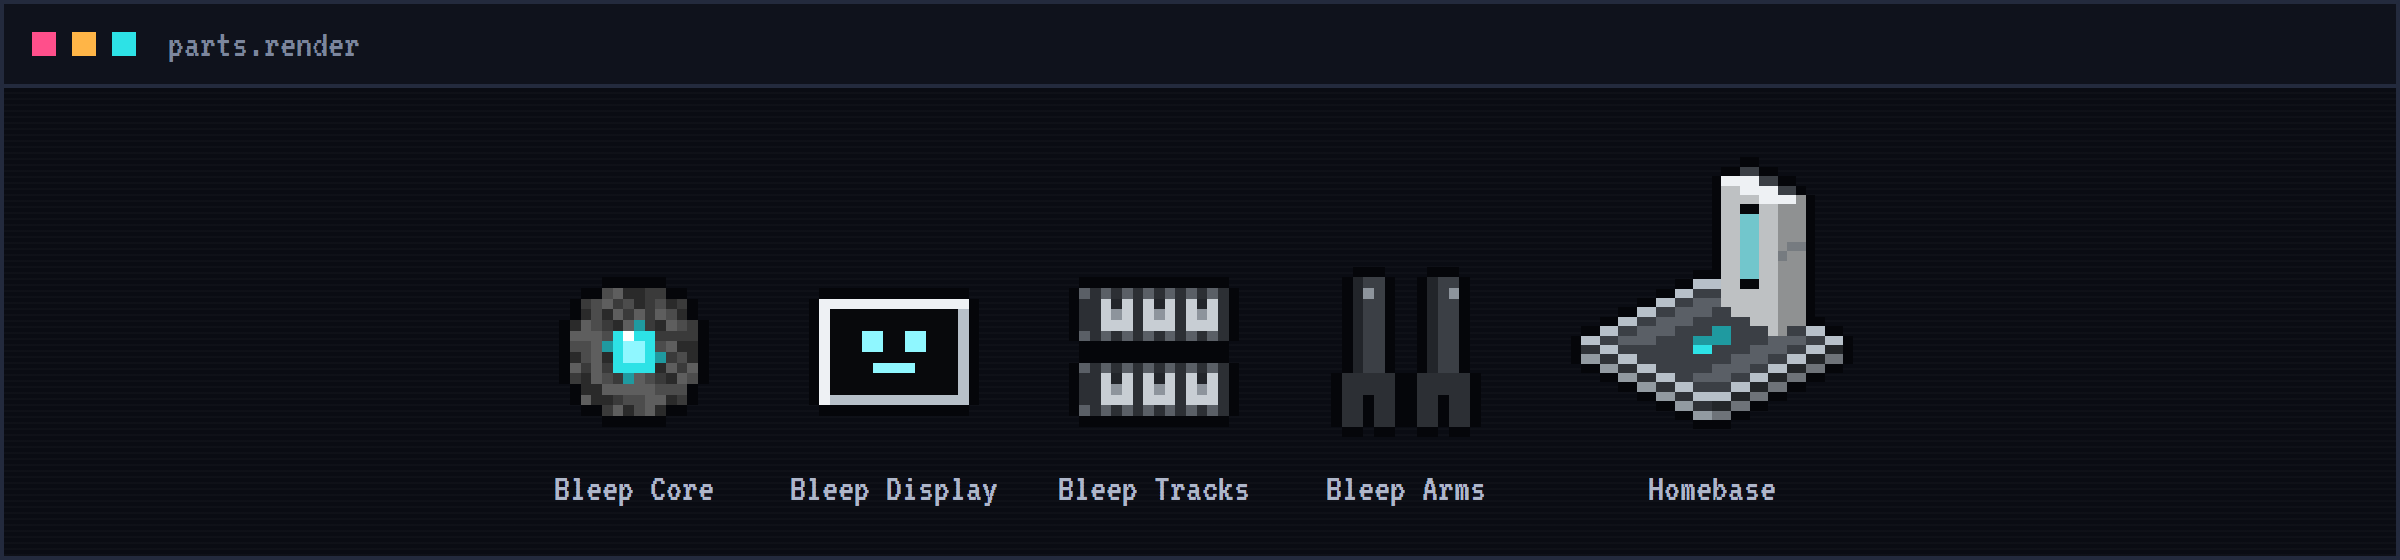
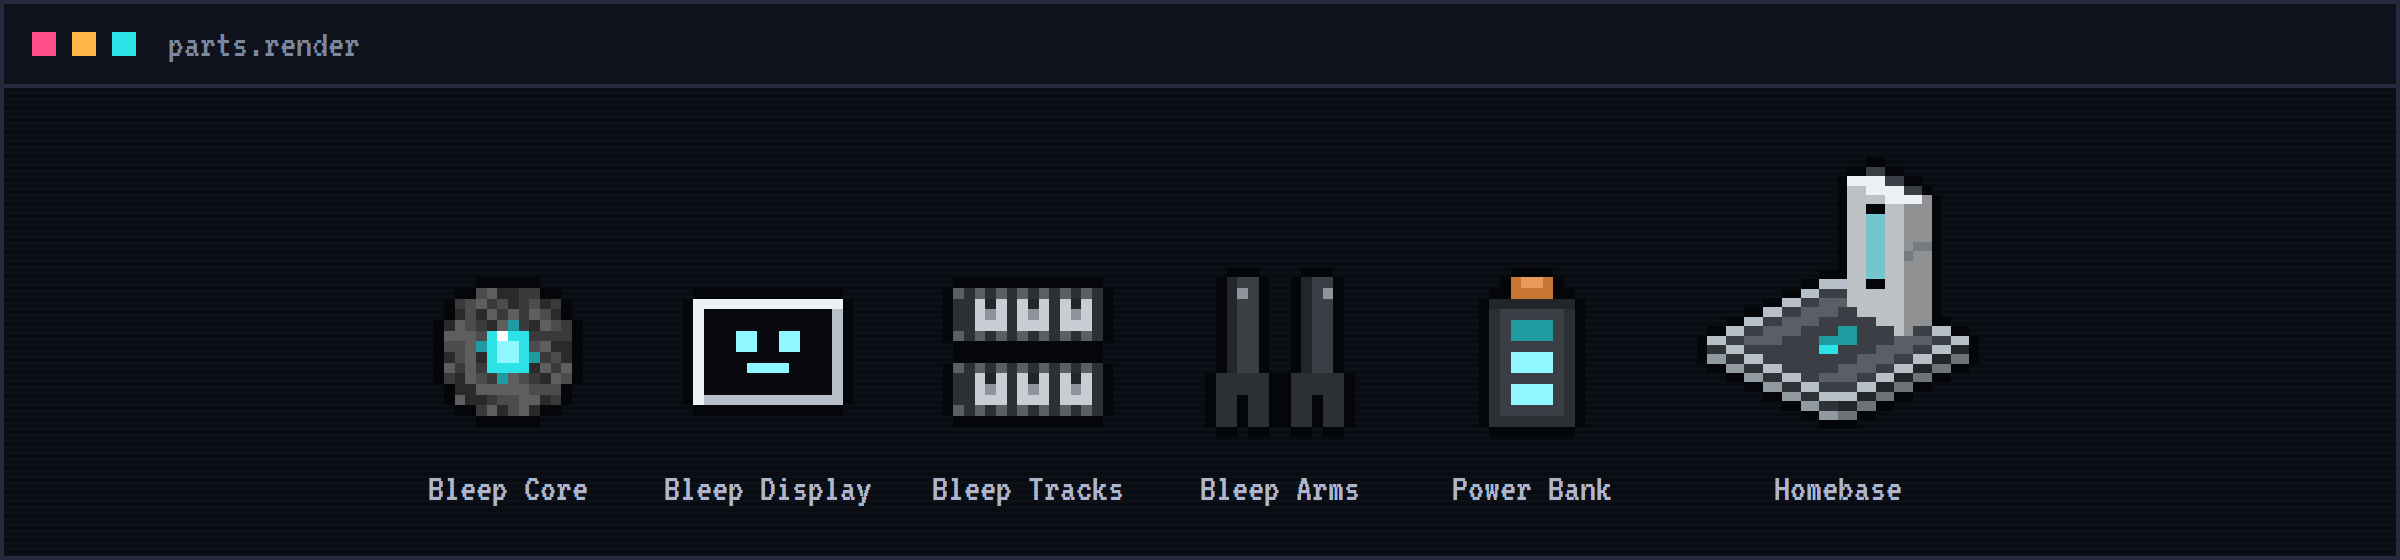
Charging: redstone (also when switched off), a power bank filled on a homebase, and lightning that overcharges it; storm thoughts
Claude-Session: https://claude.ai/code/session_01KQXgr11Y44rM8FATjPeLox

Changed region(s): [[0.1875, 0.3036, 0.8438, 0.7893], [0.1562, 0.85, 0.8125, 0.9107]]

diff --git a/src/main/java/io/hookdev/bleep/entity/BleepEntity.java b/src/main/java/io/hookdev/bleep/entity/BleepEntity.java
@@ -99,6 +99,10 @@ public class BleepEntity extends TamableAnimal {
     public static final int GOES_HOME_AFTER = 40;
     /** Further from home than this (blocks), it does not drive but beams home. */
     public static final double BEAM_HOME_FROM = 32;
+    /** Battery from a redstone dust and a block of redstone. */
+    public static final float REDSTONE_CHARGE = 8, REDSTONE_BLOCK_CHARGE = 72;
+    /** Ticks it is overcharged after a lightning strike: hyper and glitchy. */
+    public static final int OVERCHARGE_TICKS = 600;
     /** Battery per blow it lands in a fight. */
     public static final float FIGHT_COST = 1.5f;
     /** How bright its torch lights the way. */
@@ -128,7 +132,7 @@ public class BleepEntity extends TamableAnimal {
     public static final Map<String, Integer> THOUGHTS = Map.ofEntries(
             Map.entry("happy", 5), Map.entry("excited", 3), Map.entry("sad", 3), Map.entry("angry", 3), Map.entry("bored", 4),
             Map.entry("surprised", 2), Map.entry("tired", 3), Map.entry("asleep", 3), Map.entry("charging", 3), Map.entry("llama", 2),
-            Map.entry("stubborn", 3), Map.entry("glitch", 2), Map.entry("fighting", 3));
+            Map.entry("stubborn", 3), Map.entry("glitch", 2), Map.entry("fighting", 3), Map.entry("overcharged", 3), Map.entry("storm", 2));
     /** What it says about a kind of mob it has no line for (another mod's). */
     public static final String UNKNOWN_MOB = "Never seen one of those. Filing it under weird.";
 
@@ -162,6 +166,8 @@ public class BleepEntity extends TamableAnimal {
     private @Nullable BlockPos lit;
     /** Ticks it has had nothing to do; a bored bleep gets up to something (NaughtyGoal). */
     private int quietTicks;
+    /** Ticks left of being overcharged by lightning. */
+    private int overchargeTicks;
     /** Made in registerGoals, which Minecraft calls from the constructor, before field initialisers run: no initialiser here. */
     private NaughtyGoal naughty;
 
@@ -378,6 +384,23 @@ public class BleepEntity extends TamableAnimal {
      * day). Returns whether it took it.
      */
     public boolean give(Player player, ItemStack stack) {
+        if (stack.is(Items.REDSTONE_BLOCK)) {
+            if (battery() >= FULL) {
+                player.sendOverlayMessage(Component.translatable("message.bleep.full", getDisplayName()));
+                return false;
+            }
+            charge(REDSTONE_BLOCK_CHARGE);
+            return true;
+        }
+        if (stack.is(Items.REDSTONE) && battery() < FULL) {
+            charge(REDSTONE_CHARGE);
+            today();
+            if (giftsToday < Bond.GIFTS_PER_DAY && !slept) { // still a treat too, as long as there are treats left today
+                giftsToday++;
+                changeBond(Bond.GIFT);
+            }
+            return true;
+        }
         if (stack.is(Items.TORCH)) {
             if (!can(Skill.TORCH)) {
                 player.sendOverlayMessage(Component.translatable("message.bleep.not_yet", getDisplayName(), Component.translatable(Bond.key(Skill.TORCH.level * 25))));
@@ -427,6 +450,55 @@ public class BleepEntity extends TamableAnimal {
         if (player != null) {
             player.sendOverlayMessage(Component.translatable("message.bleep.loves", getDisplayName(), Component.translatable(obsession().nameKey())));
         }
+    }
+
+    /** Charges it this much, with a few sparks. */
+    public void charge(float percent) {
+        setBattery(battery() + percent);
+        if (level() instanceof ServerLevel level) {
+            level.sendParticles(net.minecraft.core.particles.ParticleTypes.ELECTRIC_SPARK, getX(), getY() + 0.7, getZ(), 6, 0.3, 0.3, 0.3, 0.05);
+        }
+        playSound(SoundEvents.BEACON_POWER_SELECT, 0.4f, 1.8f);
+    }
+
+    /** Tops it up from a power bank, as far as the bank and the battery go. The bank is kept (it shows what is left). */
+    public boolean usePowerBank(Player player, ItemStack bank) {
+        int left = bank.getMaxDamage() - bank.getDamageValue();
+        int needed = (int) Math.ceil(FULL - battery());
+        if (left <= 0) {
+            player.sendOverlayMessage(Component.translatable("message.bleep.power_bank_empty"));
+            return false;
+        }
+        if (needed <= 0) {
+            player.sendOverlayMessage(Component.translatable("message.bleep.full", getDisplayName()));
+            return false;
+        }
+        int given = Math.min(left, needed);
+        bank.setDamageValue(bank.getDamageValue() + given);
+        charge(given);
+        return false; // nothing used up: the bank stays in the hand
+    }
+
+    /** Whether giving it this works while it is switched off: only what charges it. */
+    private static boolean charges(ItemStack stack) {
+        return stack.is(Items.REDSTONE) || stack.is(Items.REDSTONE_BLOCK) || stack.is(BleepContent.POWER_BANK.get());
+    }
+
+    /** Lightning overcharges it: full at once, and hyper for a while. It does not hurt it. */
+    @Override
+    public void thunderHit(ServerLevel level, net.minecraft.world.entity.LightningBolt lightning) {
+        setBattery(FULL);
+        if (slept) {
+            slept = false;
+            if (followAfterSleep) follow();
+        }
+        overchargeTicks = OVERCHARGE_TICKS;
+        setRemainingFireTicks(0);
+        level.sendParticles(net.minecraft.core.particles.ParticleTypes.ELECTRIC_SPARK, getX(), getY() + 0.7, getZ(), 30, 0.4, 0.6, 0.4, 0.2);
+    }
+
+    public boolean overcharged() {
+        return overchargeTicks > 0;
     }
 
     /** Gives its torch back. */
@@ -655,6 +727,9 @@ public class BleepEntity extends TamableAnimal {
             llamaTicks = 40;
         }
         lightTheWay();
+        if (overchargeTicks > 0 && --overchargeTicks % 10 == 0 && level() instanceof ServerLevel level) {
+            level.sendParticles(net.minecraft.core.particles.ParticleTypes.ELECTRIC_SPARK, getX(), getY() + 0.8, getZ(), 2, 0.3, 0.3, 0.3, 0.05);
+        }
         if (getTarget() != null && (battery() < TIRED || !getTarget().isAlive())) setTarget(null);
         boolean quiet = !moving && fetching == null && scanning == null && getTarget() == null && getMainHandItem().isEmpty();
         quietTicks = quiet ? quietTicks + 1 : 0;
@@ -812,6 +887,7 @@ public class BleepEntity extends TamableAnimal {
     private Emotion currentEmotion() {
         if (slept) return Emotion.ASLEEP;
         if (moodTicks > 0) return mood;
+        if (overchargeTicks > 0) return (overchargeTicks / 10) % 2 == 0 ? Emotion.GLITCH : Emotion.EXCITED;
         if (getTarget() != null) return Emotion.ANGRY;
         if (battery() < TIRED) return Emotion.TIRED;
         if (idleTicks > (home() == null ? BORED_AFTER / 2 : BORED_AFTER)) return Emotion.BORED;
@@ -824,6 +900,7 @@ public class BleepEntity extends TamableAnimal {
         if (slept) return Activity.SLEEPING;
         if (dawdleTicks > 0) return Activity.DAWDLING;
         if (getTarget() != null) return Activity.FIGHTING;
+        if (overchargeTicks > 0) return Activity.OVERCHARGED;
         if (naughty.busy()) return Activity.NAUGHTY;
         if (goingHome) return Activity.GOING_HOME;
         if (llamaTicks > 0) return Activity.HIDING;
@@ -848,7 +925,10 @@ public class BleepEntity extends TamableAnimal {
             return;
         }
         String kind = emotion == Emotion.ASLEEP ? "asleep" : activity == Activity.CHARGING ? "charging"
-                : activity == Activity.HIDING ? "llama" : activity == Activity.FIGHTING ? "fighting" : emotion == Emotion.BOOT ? "excited" : emotion.texture();
+                : activity == Activity.HIDING ? "llama" : activity == Activity.FIGHTING ? "fighting" : activity == Activity.OVERCHARGED ? "overcharged"
+                : emotion == Emotion.BOOT ? "excited" : emotion.texture();
+        // in a thunderstorm it hopes for lightning
+        if ((kind.equals("happy") || kind.equals("bored")) && level().isThundering()) kind = "storm";
         if (kind.equals(thoughtKind) && ++thinkTicks < THINK_EVERY) return;
         thoughtKind = kind;
         thinkTicks = 0;
@@ -863,6 +943,7 @@ public class BleepEntity extends TamableAnimal {
     /** A tired bleep drives slower. */
     @Override
     public float getSpeed() {
+        if (overchargeTicks > 0) return super.getSpeed() * 1.5f;
         return battery() < TIRED ? super.getSpeed() * 0.6f : super.getSpeed();
     }
 
@@ -898,7 +979,11 @@ public class BleepEntity extends TamableAnimal {
         if (!isOwnedBy(player)) return super.mobInteract(player, hand);
         if (!stack.isEmpty()) {
             if (level().isClientSide()) return super.mobInteract(player, hand);
-            if (asleep()) return super.mobInteract(player, hand);
+            if (asleep() && !charges(stack)) return super.mobInteract(player, hand);
+            if (stack.is(BleepContent.POWER_BANK.get())) { // the bank is kept: it shows what is left
+                usePowerBank(player, stack);
+                return InteractionResult.SUCCESS;
+            }
             if (give(player, stack)) {
                 stack.consume(1, player);
                 return InteractionResult.SUCCESS;
@@ -978,6 +1063,7 @@ public class BleepEntity extends TamableAnimal {
         output.putBoolean("revealed", revealed());
         output.putInt("assembly", assembly());
         output.putInt("learned", learned);
+        output.putInt("overcharge", overchargeTicks);
         output.putLong("bond_day", bondDay);
         output.putInt("pets_today", petsToday);
         output.putInt("gifts_today", giftsToday);
@@ -1001,6 +1087,7 @@ public class BleepEntity extends TamableAnimal {
         this.entityData.set(REVEALED, input.getBooleanOr("revealed", false));
         this.entityData.set(ASSEMBLY, input.getIntOr("assembly", 0));
         learned = input.getIntOr("learned", 0);
+        overchargeTicks = input.getIntOr("overcharge", 0);
         bondDay = input.getLongOr("bond_day", -1);
         petsToday = input.getIntOr("pets_today", 0);
         giftsToday = input.getIntOr("gifts_today", 0);

diff --git a/src/main/java/io/hookdev/bleep/gametest/BleepGameTests.java b/src/main/java/io/hookdev/bleep/gametest/BleepGameTests.java
@@ -76,6 +76,10 @@ public final class BleepGameTests {
         test("a_buddy_brings_what_it_finds", BleepGameTests::aBuddyBringsWhatItFinds, 300);
         test("a_bored_bleep_steals_a_cookie", BleepGameTests::aBoredBleepStealsACookie, 300);
         test("a_bored_bleep_moves_a_torch", BleepGameTests::aBoredBleepMovesATorch, 400);
+        test("redstone_charges_it", BleepGameTests::redstoneChargesIt, 20);
+        test("redstone_wakes_an_empty_bleep", BleepGameTests::redstoneWakesAnEmptyBleep, 40);
+        test("a_power_bank_tops_it_up", BleepGameTests::aPowerBankTopsItUp, 20);
+        test("lightning_overcharges_it", BleepGameTests::lightningOverchargesIt, 40);
         test("the_core_needs_its_parts", BleepGameTests::theCoreNeedsItsParts, 20);
         test("the_core_puts_a_bleep_together", BleepGameTests::theCorePutsABleepTogether, 200);
         test("the_core_turns_up_in_chests", BleepGameTests::partsTurnUpInChests, 20);
@@ -430,6 +434,56 @@ public final class BleepGameTests {
             BlockPos moved = bleep.movedTorch();
             helper.assertTrue(moved != null && helper.getLevel().getBlockState(moved).is(Blocks.TORCH), "and stand somewhere else, nothing broken");
         });
+    }
+
+    private static void redstoneChargesIt(GameTestHelper helper) {
+        Player owner = player(helper);
+        BleepEntity bleep = bleep(helper, owner);
+        bleep.setBattery(50);
+        helper.assertTrue(bleep.give(owner, new ItemStack(Items.REDSTONE)), "redstone charges it");
+        helper.assertTrue(Math.abs(bleep.battery() - (50 + BleepEntity.REDSTONE_CHARGE)) < 0.01f, "8% a dust, battery is " + bleep.battery());
+        helper.assertTrue(bleep.bond() == Bond.GIFT, "and it is still a treat");
+        helper.assertTrue(bleep.give(owner, new ItemStack(Items.REDSTONE_BLOCK)), "a block of redstone charges it more");
+        helper.assertTrue(bleep.battery() == BleepEntity.FULL, "up to full, battery is " + bleep.battery());
+        helper.assertFalse(bleep.give(owner, new ItemStack(Items.REDSTONE_BLOCK)), "a full bleep takes no more");
+        helper.succeed();
+    }
+
+    private static void redstoneWakesAnEmptyBleep(GameTestHelper helper) {
+        Player owner = player(helper);
+        BleepEntity bleep = bleep(helper, owner);
+        bleep.setBattery(0);
+        bleep.give(owner, new ItemStack(Items.REDSTONE_BLOCK));
+        bleep.give(owner, new ItemStack(Items.REDSTONE_BLOCK));
+        helper.succeedWhen(() -> helper.assertFalse(bleep.asleep(), "charged full with redstone, it wakes up"));
+    }
+
+    private static void aPowerBankTopsItUp(GameTestHelper helper) {
+        Player owner = player(helper);
+        BleepEntity bleep = bleep(helper, owner);
+        bleep.setBattery(30);
+        ItemStack bank = new ItemStack(BleepContent.POWER_BANK.get());
+        bleep.usePowerBank(owner, bank);
+        helper.assertTrue(bleep.battery() == BleepEntity.FULL, "a full bank fills it, battery is " + bleep.battery());
+        helper.assertTrue(bank.getDamageValue() == 70, "and has 30 left, it used " + bank.getDamageValue());
+        BlockPos home = homebase(helper, HOME);
+        helper.getLevel().getBlockState(home).useItemOn(bank, helper.getLevel(), owner, InteractionHand.MAIN_HAND,
+                new BlockHitResult(Vec3.atCenterOf(home), Direction.UP, home, false));
+        helper.assertTrue(bank.getDamageValue() == 0, "a homebase fills the bank again");
+        helper.succeed();
+    }
+
+    private static void lightningOverchargesIt(GameTestHelper helper) {
+        BleepEntity bleep = bleep(helper, player(helper));
+        bleep.setBattery(10);
+        @SuppressWarnings("unchecked")
+        EntityType<net.minecraft.world.entity.LightningBolt> boltType = (EntityType<net.minecraft.world.entity.LightningBolt>) net.minecraft.core.registries.BuiltInRegistries.ENTITY_TYPE.getValue(net.minecraft.resources.Identifier.withDefaultNamespace("lightning_bolt"));
+        var bolt = boltType.create(helper.getLevel(), net.minecraft.world.entity.EntitySpawnReason.COMMAND);
+        bleep.thunderHit(helper.getLevel(), bolt);
+        helper.assertTrue(bleep.battery() == BleepEntity.FULL, "lightning fills it up");
+        helper.assertTrue(bleep.isAlive() && bleep.getHealth() == bleep.getMaxHealth(), "and does not hurt it");
+        helper.assertTrue(bleep.overcharged(), "it is overcharged");
+        helper.succeedWhen(() -> helper.assertTrue(bleep.emotion() == Emotion.GLITCH || bleep.emotion() == Emotion.EXCITED, "hyper and glitchy, it shows " + bleep.emotion()));
     }
 
     private static void aNameAlwaysShows(GameTestHelper helper) {

diff --git a/src/main/java/io/hookdev/bleep/block/HomebaseBlock.java b/src/main/java/io/hookdev/bleep/block/HomebaseBlock.java
@@ -81,6 +81,22 @@ public class HomebaseBlock extends Block {
         return InteractionResult.SUCCESS;
     }
 
+    /** A power bank put against it fills up again. */
+    @Override
+    protected InteractionResult useItemOn(ItemStack stack, BlockState state, Level level, BlockPos pos, Player player,
+                                          net.minecraft.world.InteractionHand hand, BlockHitResult hitResult) {
+        if (!stack.is(BleepContent.POWER_BANK.get())) return InteractionResult.TRY_WITH_EMPTY_HAND;
+        if (level.isClientSide()) return InteractionResult.SUCCESS;
+        if (stack.getDamageValue() == 0) {
+            player.sendOverlayMessage(Component.translatable("message.bleep.power_bank_full"));
+        } else {
+            stack.setDamageValue(0);
+            level.playSound(null, pos, net.minecraft.sounds.SoundEvents.BEACON_POWER_SELECT, net.minecraft.sounds.SoundSource.BLOCKS, 0.5f, 1.6f);
+            player.sendOverlayMessage(Component.translatable("message.bleep.power_bank_charged"));
+        }
+        return InteractionResult.SUCCESS;
+    }
+
     /** The bleep that lives here, if it is loaded. */
     public static @Nullable BleepEntity resident(Level level, BlockPos pos) {
         GlobalPos here = GlobalPos.of(level.dimension(), pos);

diff --git a/src/main/java/io/hookdev/bleep/BleepContent.java b/src/main/java/io/hookdev/bleep/BleepContent.java
@@ -55,6 +55,9 @@ public final class BleepContent {
     public static final DeferredItem<Item> BLEEP_TRACKS = ITEMS.registerSimpleItem("bleep_tracks", p -> p.stacksTo(16).rarity(Rarity.UNCOMMON));
     public static final DeferredItem<Item> BLEEP_ARMS = ITEMS.registerSimpleItem("bleep_arms", p -> p.stacksTo(16).rarity(Rarity.RARE));
 
+    /** One full charge for a bleep, carried along: its bar shows what is left. It fills up again on a homebase. */
+    public static final DeferredItem<Item> POWER_BANK = ITEMS.registerSimpleItem("power_bank", p -> p.durability(100).rarity(Rarity.UNCOMMON));
+
     /** A bleep's charging pad: an empty bleep goes there to charge, and the Go Home button sends it there. */
     public static final DeferredBlock<HomebaseBlock> HOMEBASE = BLOCKS.registerBlock("homebase", HomebaseBlock::new,
             p -> p.mapColor(MapColor.METAL).strength(2.0f, 6.0f).sound(SoundType.METAL).noOcclusion()
@@ -84,6 +87,7 @@ public final class BleepContent {
                 output.accept(BLEEP_TRACKS.get());
                 output.accept(BLEEP_ARMS.get());
                 output.accept(HOMEBASE_ITEM.get());
+                output.accept(POWER_BANK.get());
             })
             .build());
 

diff --git a/src/main/java/io/hookdev/bleep/entity/Activity.java b/src/main/java/io/hookdev/bleep/entity/Activity.java
@@ -2,7 +2,7 @@ package io.hookdev.bleep.entity;
 
 /** What a bleep is doing, for its info screen. The order is sent to clients: only ever add at the end. */
 public enum Activity {
-    FOLLOWING, STAYING, GOING_HOME, CHARGING, AT_HOME, SLEEPING, HIDING, STARTING, DAWDLING, FETCHING, LOOKING, FIGHTING, NAUGHTY;
+    FOLLOWING, STAYING, GOING_HOME, CHARGING, AT_HOME, SLEEPING, HIDING, STARTING, DAWDLING, FETCHING, LOOKING, FIGHTING, NAUGHTY, OVERCHARGED;
 
     private static final Activity[] VALUES = values();
 

diff --git a/src/main/java/io/hookdev/bleep/compat/jei/BleepJeiPlugin.java b/src/main/java/io/hookdev/bleep/compat/jei/BleepJeiPlugin.java
@@ -27,6 +27,7 @@ public final class BleepJeiPlugin implements IModPlugin {
         info(registration, BleepContent.BLEEP_TRACKS.get(), "bleep_tracks");
         info(registration, BleepContent.BLEEP_ARMS.get(), "bleep_arms");
         info(registration, BleepContent.HOMEBASE.get(), "homebase");
+        info(registration, BleepContent.POWER_BANK.get(), "power_bank");
     }
 
     /** An information page from jei.bleep.<name> in the language file. */

diff --git a/CLAUDE.md b/CLAUDE.md
@@ -31,7 +31,7 @@ A Minecraft mod by Hook Development: small robots on tracks with a display for a
 - [ ] First release 0.1.0: a big playtest, the owner creates the CurseForge project (name Bleep, author Hook Development) and the CURSEFORGE secret, then ask the owner and push the tag v0.1.0. Then: download buttons on the site.
 - [ ] **Before the first release, more features (owner, 30 Oct 2026: not releasing yet).** In steps, each with tests, a playtest, the docs, the README and its pictures (with coloured bleeps once dyeing is in):
   1. [x] (30 Oct 2026) Fight and torch: skills unlock by bond level and stay unlocked (Friend: carries a torch in its left hand that lights where it drives; Buddy: fights at your side, picks up items lying about and brings them); naughty tricks when bored, more often with a low bond, never in a fight and never breaking anything (steal a cookie from a chest, hide by a flower pot, move a torch).
-  2. Charging: redstone, a portable power bank, lightning overcharges it (hyper, glitchy).
+  2. [x] (30 Oct 2026) Charging (redstone 8% a dust and still a treat, 72% a block, also when switched off; POWER_BANK item, durability 100 = percent, filled on a homebase; thunderHit: full, OVERCHARGED 600 ticks, x1.5 speed, GLITCH/EXCITED; "storm" thoughts when thundering): redstone, a portable power bank, lightning overcharges it (hyper, glitchy).
   3. Dyes and accessories: dye a bleep, hats, stickers, an antenna with a bow; its name scrolling over its display when named, tic-tac-toe on its screen when bored, an arrow to home.
   4. The Bleepedia and the world: a clickable book icon in the info screen opens the Bleepedia: Mobs (the mob's face on the left, then its name and the remark; not scanned yet: a ? icon and ???), Biomes (with a remark each, ??? unvisited, a count), About me (its stats: built on day X, days together, distance, mobs scanned, fights won, times empty, favourite), Diary (big moments in its own words), Blocks and finds (special blocks it saw, with a remark). New discoveries the player has not seen: a ! on its display now and then (not constantly) and on the book icon. Also abandoned bleeps to repair, dancing with allays at a jukebox, sleeping next to your bed with dream thoughts.
 - [ ] Open question: redstone is a treat now (+3); in v0.2 it also charges. Both?

diff --git a/README.md b/README.md
@@ -56,7 +56,8 @@ Home buttons. Sneak-right-click to pet it. It talks back in blips, a sound for e
 
 ### The bleep
 Eleven faces on a display that glows in the dark, arms and a head that move with its mood, and a voice of its own. A
-battery instead of health: driving and damage drain it, and an empty bleep switches off with a sleepy face. A bond that
+battery instead of health: driving and damage drain it, and an empty bleep switches off with a sleepy face. Charge it on
+its homebase, with redstone or a power bank, or let lightning overcharge it. A bond that
 grows with care and teaches it new things: a Friend carries a torch that lights the way, a Buddy fights at your side and
 brings you what it finds. A favourite item, a dry remark about every mob in the game, naughty tricks when it is bored,
 and a fear of llamas nobody can explain.
@@ -64,7 +65,7 @@ and a fear of llamas nobody can explain.
 <img src=".github/readme/shelf-bleep.png" width="100%" alt="A bleep being put together, happy, excited, switched off and charging at home.">
 
 ### Parts and home
-The core and the three parts a bleep is built from, and the homebase: a charging pad it goes home to when it runs empty, and that Go
+The core and the three parts a bleep is built from, a power bank, and the homebase: a charging pad it goes home to when it runs empty, and that Go
 Home sends it to. Its light burns while it charges.
 
 <img src=".github/readme/shelf-parts.png" width="100%" alt="Bleep Core, Bleep Display, Bleep Tracks, Bleep Arms and the homebase.">

diff --git a/release/curseforge/description.md b/release/curseforge/description.md
@@ -30,6 +30,7 @@ The better you look after it, the more it likes you. A new bleep sometimes dawdl
 
 - **A battery instead of health.** Driving and damage drain it: a zombie's hit is simply power lost. Below 20 % it looks tired and drives slower; at 0 % it switches off with a last sleepy face.
 - **A homebase.** Craft a charging pad and place it near your bleep: it moves in. An empty bleep goes home to charge, and the Go Home button sends it there. The light on its post burns while it charges.
+- **More ways to charge.** Redstone tops it up, even when it has switched off. A power bank carries one full charge along and fills up again on a homebase. And lightning fills it at once and overcharges it: fast, glitchy and very happy for half a minute. In a thunderstorm it hopes for exactly that.
 - **Never really gone.** Only /kill and the void remove a bleep. Break its homebase and it is homeless, and sad about it; die with your bed near the homebase, and your bleep is waiting for you there.
 
 ![A bleep being put together, happy, excited, switched off and charging at home](https://raw.githubusercontent.com/ParadiseArchive/bleep/v0.1.0/.github/readme/shelf-bleep.png)

diff --git a/release/changelog/0.1.0.md b/release/changelog/0.1.0.md
@@ -5,6 +5,7 @@ The first Bleep: little robots on tracks with a display for a face. For Minecraf
 - **A voice.** A blip for every mood, a little higher or lower for every bleep.
 - **A battery instead of health.** Driving and damage drain it; an empty bleep switches off with a sleepy face instead of dying.
 - **A homebase.** A charging pad your bleep goes home to when it runs empty. Go Home sends it there.
+- **More ways to charge.** Redstone, a power bank you carry along, and lightning, which overcharges it.
 - **An info screen.** Right-click your bleep: its mood, what it is doing and thinking, its battery, your bond, its favourite item, and Follow, Stay and Go Home.
 - **A bond you build.** Pet it, give it treats and its favourite item, spend days together. A new bleep sometimes dawdles over what you ask; a best friend hardly ever does.
 - **It learns as the bond grows.** A Friend carries a torch that lights the way; a Buddy fights at your side and brings you what it finds.
